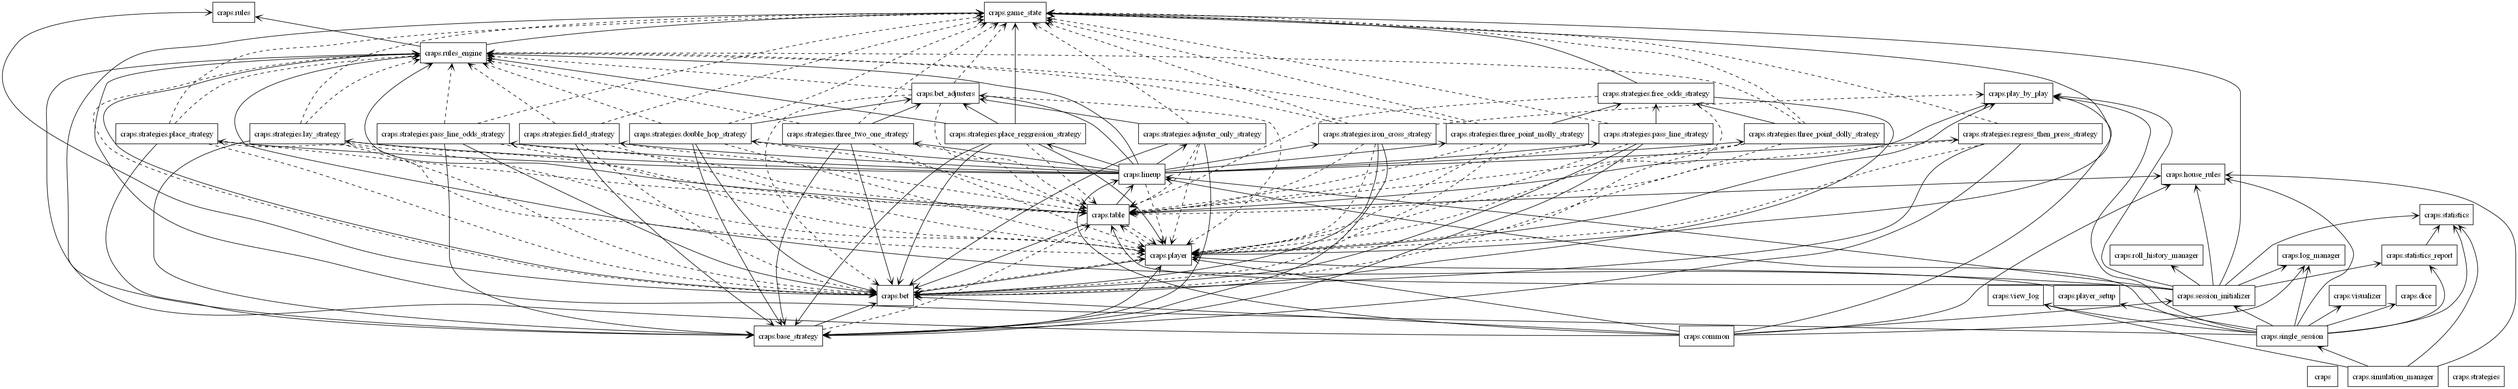
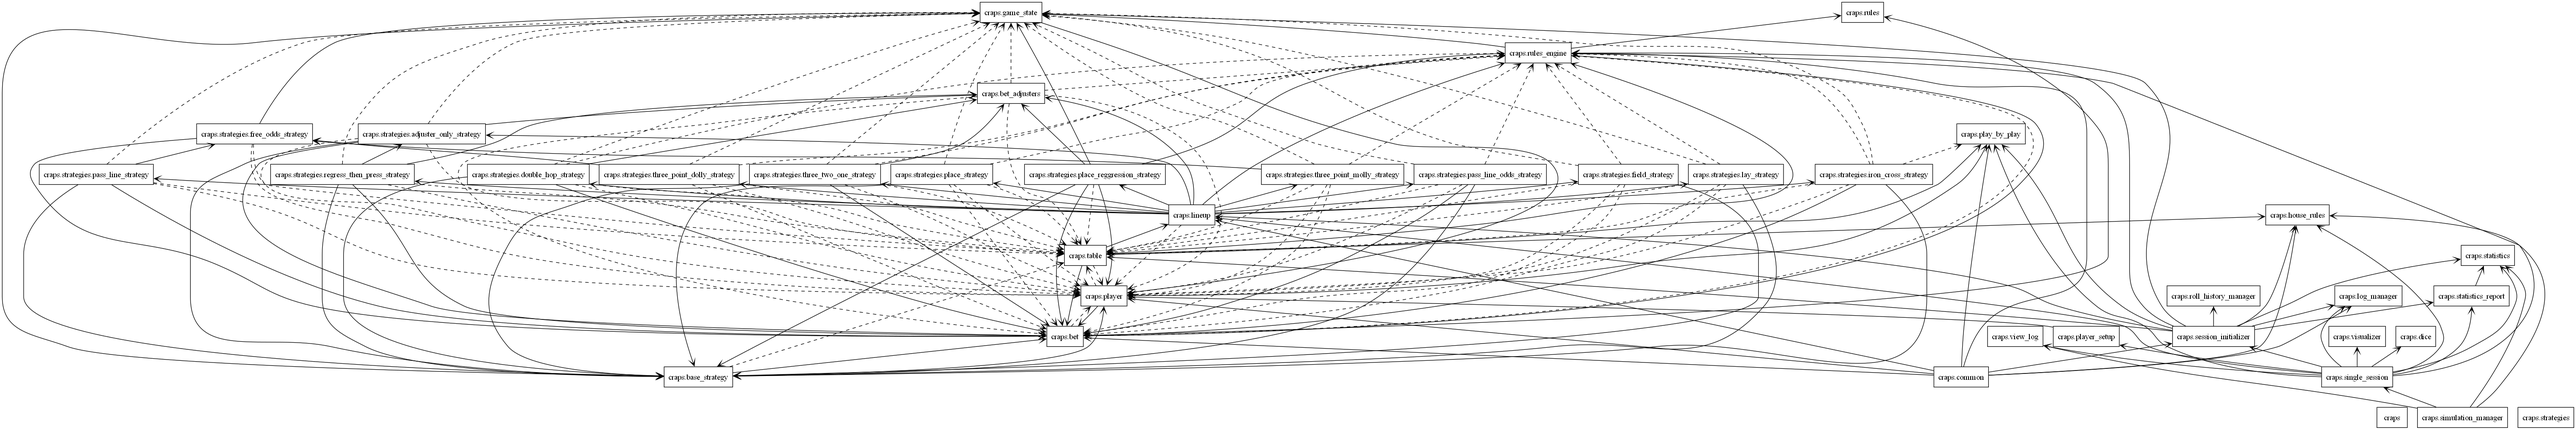
Refactored PressAdjuster - all tests working

diff --git a/craps/bet_adjusters.py b/craps/bet_adjusters.py
@@ -7,20 +7,18 @@ used to manage post-roll bet modifications such as pressing, collecting, regress
 | Class Name                | Behavior Summary                                        |
 |--------------------------|---------------------------------------------------------|
 | `PressAdjuster`          | Full press after win (add full winnings to bet)         |
-| `HalfPressAdjuster`      | Add half the winnings to the bet                        |
 | `RegressAdjuster`        | Reduce the bet by a set number of units                 |
-| `PowerPressAdjuster`     | Press full winnings plus one additional unit            |
-| `PressAndCollectAdjuster`| Press a portion of the win and collect the rest         |
-| `TakeDownAdjuster`       | Set bet status to inactive or remove from table         |
-| `UnitPressAdjuster`      | Press in fixed increments (e.g., $6)                    |
-| `TargetPressAdjuster`    | Keep pressing until target reached                      |
-| `PressAcrossAdjuster`    | Press all place bets                                    |
-| `PressInsideAdjuster`    | Press 5/6/8/9                                           |
-| `PressOutsideAdjuster`   | Press 4/10                                              |
 """
 
 from abc import ABC, abstractmethod
-from typing import TYPE_CHECKING, List
+from typing import TYPE_CHECKING, List, Optional
+from enum import Enum
+
+class PressStyle(Enum):
+    HALF = "half"
+    FULL = "full"
+    POWER = "power"
+    N_UNIT = "n_unit"
 
 if TYPE_CHECKING:
     from craps.bet import Bet
@@ -47,18 +45,6 @@ class BetAdjuster(ABC):
     def notify_payout(self, amount: int) -> None:
         """Optional hook called when a player wins a payout (not including original bet)."""
         pass
-
-class PressAdjuster(BetAdjuster):
-    """
-    Fully presses the bet by adding the winnings to the current amount
-    after a win. Assumes the bet has been resolved and won.
-    """
-
-    def adjust(self, bet: "Bet", table: "Table", rules_engine: "RulesEngine") -> None:
-        if bet.status != "won":
-            return
-
-        bet.amount += bet.resolved_payout  # Add winnings to bet in-place
 
 class RegressAdjuster(BetAdjuster):
     """
@@ -92,21 +78,26 @@ class RegressAdjuster(BetAdjuster):
         if bet.amount > target_amount:
             bet.amount = target_amount
             
-class HalfPressAdjuster(BetAdjuster):
+class PressAdjuster(BetAdjuster):
+    def __init__(self, style: PressStyle = PressStyle.HALF, n_units: int = 1) -> None:
+        self.style = style
+        self.n_units = n_units
+
     def adjust(self, bet: "Bet", table: "Table", rules_engine: "RulesEngine") -> None:
-        """
-        Presses a Place bet by adding half the winnings, rounded to the correct multiple.
-        """
         if bet.status != "won" or bet.resolved_payout == 0:
             return
 
-        if not isinstance(bet.number, int):
-            return
+        unit = bet.unit
+        winnings = bet.resolved_payout
+        additional = 0
 
-        unit = bet.unit  # ✅ Pull directly from the bet
-        if unit == 0:
-            return  # Safety check
+        if self.style == PressStyle.HALF:
+            additional = (winnings // 2) // unit * unit
+        elif self.style == PressStyle.FULL:
+            additional = (winnings // unit) * unit
+        elif self.style == PressStyle.POWER:
+            additional = ((winnings + unit - 1) // unit) * unit
+        elif self.style == PressStyle.N_UNIT and self.n_units:
+            additional = self.n_units * unit
 
-        half_press = bet.resolved_payout // 2
-        additional = (half_press // unit) * unit  # Round down to nearest multiple of unit
         bet.amount += additional

diff --git a/craps/strategies/double_hop_strategy.py b/craps/strategies/double_hop_strategy.py
@@ -1,8 +1,8 @@
 from __future__ import annotations
-from typing import TYPE_CHECKING, List
+from typing import TYPE_CHECKING, List, Optional
 from craps.bet import Bet
 from craps.base_strategy import BaseStrategy
-from craps.bet_adjusters import PressAdjuster
+from craps.bet_adjusters import PressStyle, PressAdjuster
 
 if TYPE_CHECKING:
     from craps.rules_engine import RulesEngine
@@ -17,31 +17,23 @@ class DoubleHopStrategy(BaseStrategy):
         self.rules_engine = rules_engine
         self.base_bet = base_bet
         self.pressed_once = False  # <-- track press state
-        self.adjuster = PressAdjuster()
+        self.press_adjuster = PressAdjuster(style=PressStyle.FULL)
 
     def place_bets(self, game_state: GameState, player: Player, table: Table) -> List[Bet]:
-        # Only place the bet if it's not already present
-        existing = next(
-            (b for b in table.bets if b.owner == player and b.bet_type == "Hop" and b.number == self.hop_target),
-            None
-        )
+        bet = self.rules_engine.create_bet("Hop", self.base_bet, player, self.hop_target)
+        return [bet]
 
-        if not existing:
-            bet = self.rules_engine.create_bet("Hop", self.base_bet, player, number=self.hop_target)
-            if game_state.play_by_play is not None:
-                player.place_bet(bet, table, game_state.phase, game_state.play_by_play)
+    def adjust_bets(self, game_state: GameState, player: Player, table: Table) -> Optional[List[Bet]]:
+        updated = []
 
-        return []
-
-    def adjust_bets(self, game_state: GameState, player: Player, table: Table) -> List[Bet]:
         for bet in table.bets:
             if bet.owner == player and bet.bet_type == "Hop" and bet.number == self.hop_target:
                 if bet.status == "won":
-                    if bet.hits % 2 == 1:
-                        # First, third, fifth win → press
-                        self.adjuster.adjust(bet, table, self.rules_engine)
-                    else:
-                        # Second, fourth, sixth win → reset
-                        bet.amount = self.base_bet
+                    if bet.hits == 1:
+                        self.press_adjuster.adjust(bet, table, self.rules_engine)  # ✅ First hit → press it
+                        updated.append(bet)
+                    elif bet.hits >= 2:
+                        bet.amount = self.base_bet  # ✅ Reset on second win
+                        updated.append(bet)
 
-        return []
+        return updated if updated else None

diff --git a/tests/test_strategies.py b/tests/test_strategies.py
@@ -17,7 +17,7 @@ from craps.strategies.three_two_one_strategy import ThreeTwoOneStrategy
 from craps.statistics import Statistics
 from craps.strategies.place_reggression_strategy import PlaceRegressionStrategy
 from craps.strategies.adjuster_only_strategy import AdjusterOnlyStrategy
-from craps.bet_adjusters import HalfPressAdjuster
+from craps.bet_adjusters import PressStyle, PressAdjuster
 from craps.strategies.regress_then_press_strategy import RegressThenPressStrategy
 from tests.test_utils import assert_contains_bet
 
@@ -208,6 +208,9 @@ class TestStrategies(unittest.TestCase):
 
     def test_initial_placement(self):
         bets = self.strategy.place_bets(self.game_state, self.player, self.table)
+        for bet in bets:
+            self.table.place_bet(bet, self.game_state.phase)  # ✅ Actually place the bet
+
         self.assertEqual(len(self.table.bets), 1)
         hop_bet = self.table.bets[0]
         self.assertEqual(hop_bet.number, (1, 1))
@@ -216,7 +219,10 @@ class TestStrategies(unittest.TestCase):
 
     def test_press_and_reset_cycle(self):
         # Step 1: Place initial bet
-        self.strategy.place_bets(self.game_state, self.player, self.table)
+        bets = self.strategy.place_bets(self.game_state, self.player, self.table)
+        for bet in bets:
+            self.table.place_bet(bet, self.game_state.phase)  # ✅ Actually place the bet
+
         hop_bet = self.table.bets[0]
 
         # Step 2: First win (should press to 310)
@@ -304,14 +310,9 @@ class TestStrategies(unittest.TestCase):
             regress_units=10
         )
 
-        press_strategy = AdjusterOnlyStrategy(
-            name="Half Press",
-            adjuster=HalfPressAdjuster()
-        )
-
         strategy = RegressThenPressStrategy(
             regression_strategy=regression_strategy,
-            press_strategy=press_strategy
+            press_style=PressStyle.HALF
         )
 
         self.player.betting_strategy = strategy

diff --git a/craps/strategies/regress_then_press_strategy.py b/craps/strategies/regress_then_press_strategy.py
@@ -1,6 +1,8 @@
 from typing import List, Optional, TYPE_CHECKING
 from craps.base_strategy import BaseStrategy
 from craps.bet import Bet
+from craps.bet_adjusters import PressAdjuster, PressStyle
+from craps.strategies.adjuster_only_strategy import AdjusterOnlyStrategy
 
 if TYPE_CHECKING:
     from craps.table import Table
@@ -23,10 +25,13 @@ class RegressThenPressStrategy(BaseStrategy):
     then switches back to regression mode where the cycle repeats.
     """
 
-    def __init__(self, regression_strategy: BaseStrategy, press_strategy: BaseStrategy) -> None:
+    def __init__(self, regression_strategy: BaseStrategy, press_style: Optional[PressStyle] = None) -> None:
         super().__init__("Regress Then Press")
         self.regression = regression_strategy
-        self.press = press_strategy
+        self.press = AdjusterOnlyStrategy(
+            name=f"{(press_style or PressStyle.HALF).value.title()} Press",
+            adjuster=PressAdjuster(style=(press_style or PressStyle.HALF))
+        )
         self.active_strategy = self.regression
         self.transitioned = False
         self.max_press_threshold: Optional[float] = None
@@ -41,7 +46,7 @@ class RegressThenPressStrategy(BaseStrategy):
     def notify_payout(self, amount: int) -> None:
         self.regression.notify_payout(amount)
         self.press.notify_payout(amount)
-        
+
     def place_bets(self, game_state: "GameState", player: "Player", table: "Table") -> List[Bet]:
         return self.active_strategy.place_bets(game_state, player, table)
 

diff --git a/craps/lineup.py b/craps/lineup.py
@@ -12,7 +12,7 @@ from craps.strategies.place_reggression_strategy import PlaceRegressionStrategy
 from craps.strategies.regress_then_press_strategy import RegressThenPressStrategy
 from craps.strategies.lay_strategy import LayBetStrategy
 from craps.strategies.adjuster_only_strategy import AdjusterOnlyStrategy
-from craps.bet_adjusters import HalfPressAdjuster
+from craps.bet_adjusters import PressAdjuster, PressStyle
 from craps.rules_engine import RulesEngine
 
 if TYPE_CHECKING:
@@ -51,8 +51,7 @@ class PlayerLineup:
             "Place 68": PlaceBetStrategy(table=self.table, numbers_or_strategy=[6, 8], rules_engine=self.rules_engine),
             "Double Aces": DoubleHopStrategy(base_bet=1, hop_target=(1, 1), rules_engine=rules_engine),
             "Three-Two-One": ThreeTwoOneStrategy(rules_engine=self.rules_engine, min_bet=self.house_rules.table_minimum, odds_type="1x"),
-            "RegressHalfPress": RegressThenPressStrategy(regression_strategy=PlaceRegressionStrategy(high_unit=10,low_unit=3, regression_factor=2, regress_units=5),
-                                                         press_strategy=AdjusterOnlyStrategy(name="HalfPress",adjuster=HalfPressAdjuster())),
+            "RegressHalfPress": RegressThenPressStrategy(regression_strategy=PlaceRegressionStrategy(high_unit=10,low_unit=3, regression_factor=2, regress_units=5),press_style = PressStyle.HALF),
             "Lay Outside": LayBetStrategy(table=self.table, rules_engine=self.rules_engine, numbers_or_strategy="Outside"),
         }
 

diff --git a/craps/strategies/place_reggression_strategy.py b/craps/strategies/place_reggression_strategy.py
@@ -4,7 +4,7 @@ from craps.player import Player
 from craps.game_state import GameState
 from craps.rules_engine import RulesEngine
 from craps.base_strategy import BaseStrategy
-from craps.bet_adjusters import BetAdjuster, RegressAdjuster, HalfPressAdjuster
+from craps.bet_adjusters import BetAdjuster, RegressAdjuster, PressAdjuster, PressStyle
 
 if TYPE_CHECKING:
     from craps.table import Table
@@ -125,7 +125,6 @@ class PlaceRegressionStrategy(BaseStrategy):
                     updated_bets.append(bet)
 
             table.play_by_play.write(f"  📉 {player.name} regressing to unit level {current_unit} after hit #{self.hits}")
-            print(f"→ Hits: {self.hits}, Regression Index: {regression_index}, Current Unit: {current_unit}")
 
             # 👇 Switch to press mode after completing regression
             if current_unit == self.low_unit:
@@ -137,7 +136,7 @@ class PlaceRegressionStrategy(BaseStrategy):
                 )
 
         elif self.mode == "press":
-            half_press_adjuster = HalfPressAdjuster()
+            half_press_adjuster = PressAdjuster(style=PressStyle.HALF)
             for bet in table.bets:
                 if (
                     bet.owner == player and bet.bet_type == "Place"
